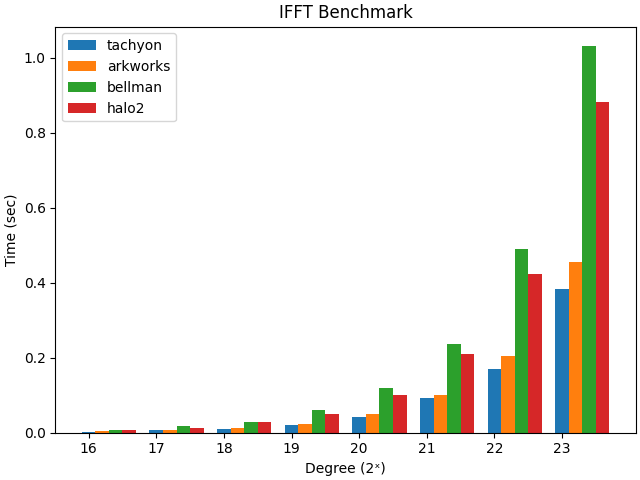
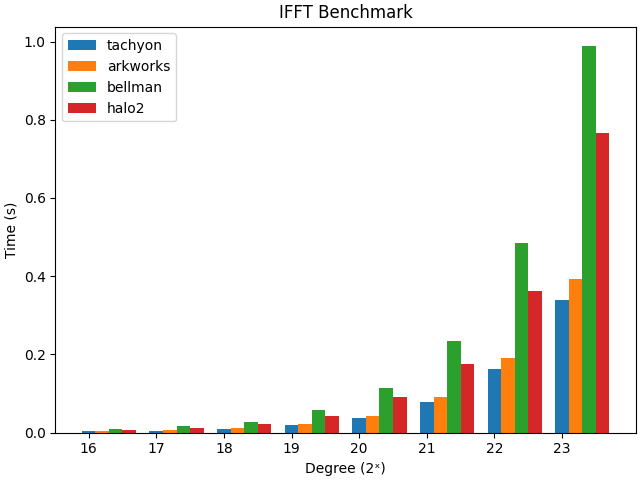
docs(benchmark): update FFT benchmarks with new flags

diff --git a/benchmark/fft/README.md b/benchmark/fft/README.md
@@ -4,6 +4,7 @@
 
 ```
 Run on 13th Gen Intel(R) Core(TM) i9-13900K (32 X 5500 MHz CPU s)
+Compiler: clang-15
 CPU Caches:
   L1 Data 48 KiB (x16)
   L1 Instruction 32 KiB (x16)
@@ -17,60 +18,62 @@ CPU Caches:
   L2 Unified 4096 KiB (x12)
 ```
 
+Note: Run with `build --@rules_rust//:extra_rustc_flags="-Ctarget-cpu=native"` in your .bazelrc.user
+
 ### FFT
 
 ```shell
-bazel run --config opt --//:has_matplotlib //benchmark/fft:fft_benchmark -- -k 16 -k 17 -k 18 -k 19 -k 20 -k 21 -k 22 -k 23 --vendor arkworks --vendor bellman --vendor halo2 --check_results
+GOMP_SPINCOUNT=0 bazel run --config maxopt --//:has_matplotlib //benchmark/fft:fft_benchmark -- -k 16 -k 17 -k 18 -k 19 -k 20 -k 21 -k 22 -k 23 --vendor arkworks --vendor bellman --vendor halo2 --check_results
 ```
 
 #### On Intel i9-13900K
 
 | Exponent | Tachyon      | Arkworks     | Bellman  | Halo2    |
 | :------: | ------------ | ------------ | -------- | -------- |
-|    16    | **0.000958** | 0.004086     | 0.007342 | 0.003784 |
-|    17    | 0.032529     | **0.003283** | 0.012624 | 0.005433 |
-|    18    | 0.014067     | **0.005768** | 0.025811 | 0.009372 |
-|    19    | **0.008459** | 0.011465     | 0.05208  | 0.019333 |
-|    20    | **0.016166** | 0.024533     | 0.106217 | 0.042381 |
-|    21    | **0.039447** | 0.069444     | 0.212414 | 0.087621 |
-|    22    | **0.125954** | 0.177245     | 0.431237 | 0.188843 |
-|    23    | **0.297259** | 0.391987     | 0.835686 | 0.427426 |
+|    16    | **0.002058** | 0.005143     | 0.006314 | 0.002249 |
+|    17    | **0.002246** | 0.00334      | 0.015646 | 0.006193 |
+|    18    | **0.010154** | 0.018807     | 0.046443 | 0.007574 |
+|    19    | 0.022984     | **0.014652** | 0.076281 | 0.014506 |
+|    20    | **0.02**     | 0.02497      | 0.100082 | 0.042877 |
+|    21    | **0.044831** | 0.075563     | 0.20222  | 0.067161 |
+|    22    | **0.130201** | 0.179075     | 0.402452 | 0.169194 |
+|    23    | **0.281398** | 0.394068     | 0.792004 | 0.372566 |
 
 ![image](/benchmark/fft/fft_benchmark_ubuntu_i9.png)
 
 #### On Mac M3 Pro
 
-| Exponent | Tachyon      | Arkworks     | Bellman  | Halo2    |
-| :------: | ------------ | ------------ | -------- | -------- |
-|    16    | **0.002735** | 0.003468     | 0.007731 | 0.006372 |
-|    17    | **0.005237** | 0.006043     | 0.015891 | 0.012804 |
-|    18    | **0.009494** | 0.010686     | 0.027312 | 0.02485  |
-|    19    | 0.020251     | **0.020156** | 0.055652 | 0.045714 |
-|    20    | **0.038186** | 0.040006     | 0.110531 | 0.096778 |
-|    21    | **0.085204** | 0.087181     | 0.228044 | 0.191695 |
-|    22    | **0.166863** | 0.179635     | 0.472941 | 0.386844 |
-|    23    | **0.347128** | 0.378249     | 0.970552 | 0.814043 |
+| Exponent | Tachyon      | Arkworks | Bellman  | Halo2    |
+| :------: | ------------ | -------- | -------- | -------- |
+|    16    | **0.002526** | 0.003804 | 0.00784  | 0.005689 |
+|    17    | **0.004694** | 0.005769 | 0.015577 | 0.01121  |
+|    18    | **0.009246** | 0.010243 | 0.027834 | 0.022379 |
+|    19    | **0.018328** | 0.020404 | 0.055661 | 0.041394 |
+|    20    | **0.039683** | 0.041085 | 0.110702 | 0.086299 |
+|    21    | **0.079138** | 0.087336 | 0.230857 | 0.175599 |
+|    22    | **0.166646** | 0.177959 | 0.474296 | 0.352872 |
+|    23    | **0.33996**  | 0.363612 | 0.971581 | 0.748284 |
 
 ![image](/benchmark/fft/fft_benchmark_mac_m3.png)
 
 ### IFFT
 
 ```shell
-bazel run --config opt --//:has_matplotlib //benchmark/fft:fft_benchmark -- -k 16 -k 17 -k 18 -k 19 -k 20 -k 21 -k 22 -k 23 --vendor arkworks --vendor bellman --vendor halo2 --run_ifft --check_results
+GOMP_SPINCOUNT=0 bazel run --config maxopt --//:has_matplotlib //benchmark/fft:fft_benchmark -- -k 16 -k 17 -k 18 -k 19 -k 20 -k 21 -k 22 -k 23 --vendor arkworks --vendor bellman --vendor halo2 --run_ifft --check_results
 ```
 
 #### On Intel i9-13900K
 
-| Exponent | Tachyon      | Arkworks     | Bellman  | Halo2       |
-| :------: | ------------ | ------------ | -------- | ----------- |
-|    16    | 0.003078     | 0.004531     | 0.007794 | **0.00297** |
-|    17    | 0.011666     | **0.005005** | 0.012804 | 0.005309    |
-|    18    | **0.005614** | 0.009204     | 0.025717 | 0.009741    |
-|    19    | **0.007625** | 0.015332     | 0.050253 | 0.018729    |
-|    20    | **0.016751** | 0.030142     | 0.111549 | 0.041873    |
-|    21    | **0.039565** | 0.0715       | 0.222403 | 0.098125    |
-|    22    | **0.140152** | 0.181124     | 0.415709 | 0.188011    |
-|    23    | **0.317353** | 0.400472     | 0.845031 | 0.407396    |
+| Exponent | Tachyon      | Arkworks | Bellman  | Halo2        |
+| :------: | ------------ | -------- | -------- | ------------ |
+|    16    | **0.001392** | 0.012028 | 0.009913 | 0.002413     |
+|    17    | **0.002511** | 0.00427  | 0.01418  | 0.005731     |
+|    18    | 0.01762      | 0.021167 | 0.034676 | **0.010811** |
+|    19    | **0.009646** | 0.01447  | 0.058714 | 0.016038     |
+|    20    | **0.030303** | 0.034815 | 0.104936 | 0.05337      |
+|    21    | **0.047463** | 0.072579 | 0.199788 | 0.093146     |
+|    22    | **0.146697** | 0.181389 | 0.391296 | 0.19874      |
+|    23    | **0.285937** | 0.403596 | 0.82276  | 0.347876     |
 
 ![image](/benchmark/fft/ifft_benchmark_ubuntu_i9.png)
 
@@ -78,14 +81,14 @@ bazel run --config opt --//:has_matplotlib //benchmark/fft:fft_benchmark -- -k 1
 
 | Exponent | Tachyon      | Arkworks | Bellman  | Halo2    |
 | :------: | ------------ | -------- | -------- | -------- |
-|    16    | **0.002766** | 0.004274 | 0.007948 | 0.006638 |
-|    17    | **0.005883** | 0.006978 | 0.016308 | 0.013121 |
-|    18    | **0.010532** | 0.012815 | 0.029066 | 0.028791 |
-|    19    | **0.020781** | 0.024054 | 0.059351 | 0.048824 |
-|    20    | **0.041061** | 0.048806 | 0.11825  | 0.099004 |
-|    21    | **0.090855** | 0.101232 | 0.236775 | 0.210805 |
-|    22    | **0.170776** | 0.203109 | 0.488306 | 0.423618 |
-|    23    | **0.383255** | 0.454968 | 1.03129  | 0.881795 |
+|    16    | **0.002798** | 0.003867 | 0.008102 | 0.005665 |
+|    17    | **0.004882** | 0.005737 | 0.015998 | 0.011672 |
+|    18    | **0.010308** | 0.010962 | 0.028118 | 0.022723 |
+|    19    | **0.018724** | 0.021338 | 0.056855 | 0.042554 |
+|    20    | **0.037687** | 0.043237 | 0.113848 | 0.089899 |
+|    21    | **0.078429** | 0.092134 | 0.234585 | 0.174939 |
+|    22    | **0.162542** | 0.189442 | 0.484644 | 0.361127 |
+|    23    | **0.338646** | 0.392674 | 0.989173 | 0.765592 |
 
 ![image](/benchmark/fft/ifft_benchmark_mac_m3.png)
 
@@ -94,41 +97,41 @@ bazel run --config opt --//:has_matplotlib //benchmark/fft:fft_benchmark -- -k 1
 ### FFT
 
 ```shell
-bazel run --config opt --config cuda --//:has_matplotlib //benchmark/fft:fft_benchmark_gpu -- -k 16 -k 17 -k 18 -k 19 -k 20 -k 21 -k 22 -k 23 --check_results
+GOMP_SPINCOUNT=0 bazel run --config maxopt --config cuda --//:has_matplotlib //benchmark/fft:fft_benchmark_gpu -- -k 16 -k 17 -k 18 -k 19 -k 20 -k 21 -k 22 -k 23 --check_results
 ```
 
 #### On RTX-4090
 
 | Exponent | Tachyon CPU | Tachyon GPU  |
 | :------: | ----------- | ------------ |
-|    16    | **0.00097** | 0.001231     |
-|    17    | 0.002156    | **0.000667** |
-|    18    | 0.003524    | **0.001297** |
-|    19    | 0.007366    | **0.002654** |
-|    20    | 0.015787    | **0.005877** |
-|    21    | 0.03753     | **0.012573** |
-|    22    | 0.122167    | **0.027632** |
-|    23    | 0.268875    | **0.055971** |
+|    16    | 0.002348    | **0.001**    |
+|    17    | 0.00204     | **0.001182** |
+|    18    | 0.00393     | **0.002211** |
+|    19    | 0.009317    | **0.004079** |
+|    20    | 0.049204    | **0.008114** |
+|    21    | 0.044158    | **0.01616**  |
+|    22    | 0.134064    | **0.032785** |
+|    23    | 0.274101    | **0.066068** |
 
 ![image](/benchmark/fft/fft_benchmark_ubuntu_rtx_4090.png)
 
 ### IFFT
 
 ```shell
-bazel run --config opt --config cuda --//:has_matplotlib //benchmark/fft:fft_benchmark_gpu -- -k 16 -k 17 -k 18 -k 19 -k 20 -k 21 -k 22 -k 23 --run_ifft --check_results
+GOMP_SPINCOUNT=0 bazel run --config maxopt --config cuda --//:has_matplotlib //benchmark/fft:fft_benchmark_gpu -- -k 16 -k 17 -k 18 -k 19 -k 20 -k 21 -k 22 -k 23 --run_ifft --check_results
 ```
 
 #### On RTX-4090
 
 | Exponent | Tachyon  | Tachyon GPU  |
 | :------: | -------- | ------------ |
-|    16    | 0.000993 | **0.000833** |
-|    17    | 0.001673 | **0.000643** |
-|    18    | 0.003533 | **0.001305** |
-|    19    | 0.007446 | **0.002701** |
-|    20    | 0.016039 | **0.005882** |
-|    21    | 0.03786  | **0.012817** |
-|    22    | 0.126032 | **0.027767** |
-|    23    | 0.32731  | **0.056064** |
+|    16    | 0.002138 | **0.001341** |
+|    17    | 0.00488  | **0.000933** |
+|    18    | 0.003887 | **0.002502** |
+|    19    | 0.00896  | **0.003806** |
+|    20    | 0.017953 | **0.007745** |
+|    21    | 0.043787 | **0.016268** |
+|    22    | 0.132048 | **0.033012** |
+|    23    | 0.291132 | **0.066022** |
 
 ![image](/benchmark/fft/ifft_benchmark_ubuntu_rtx_4090.png)
